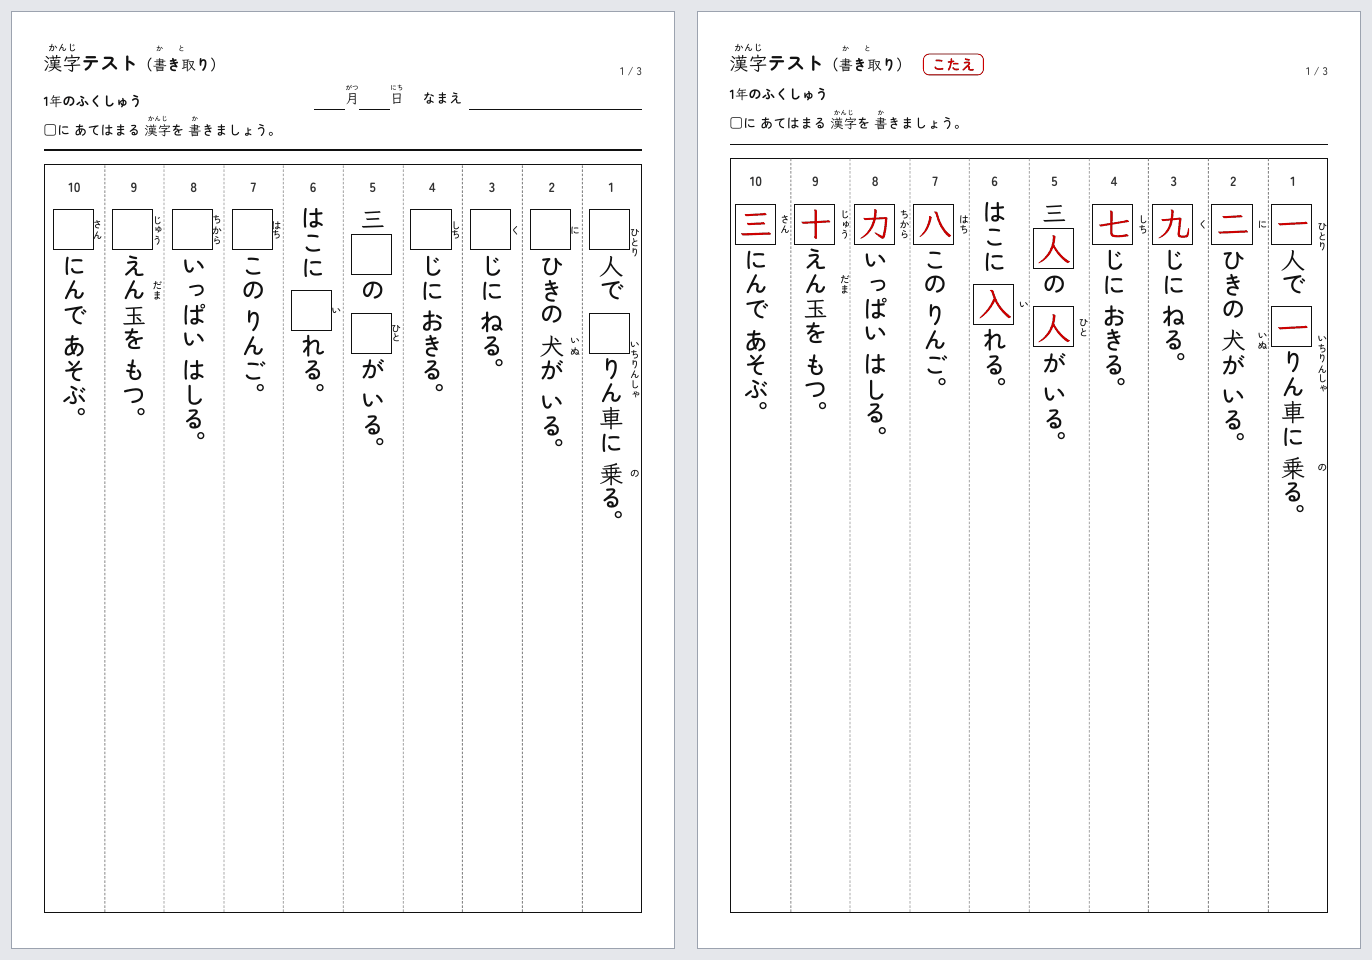
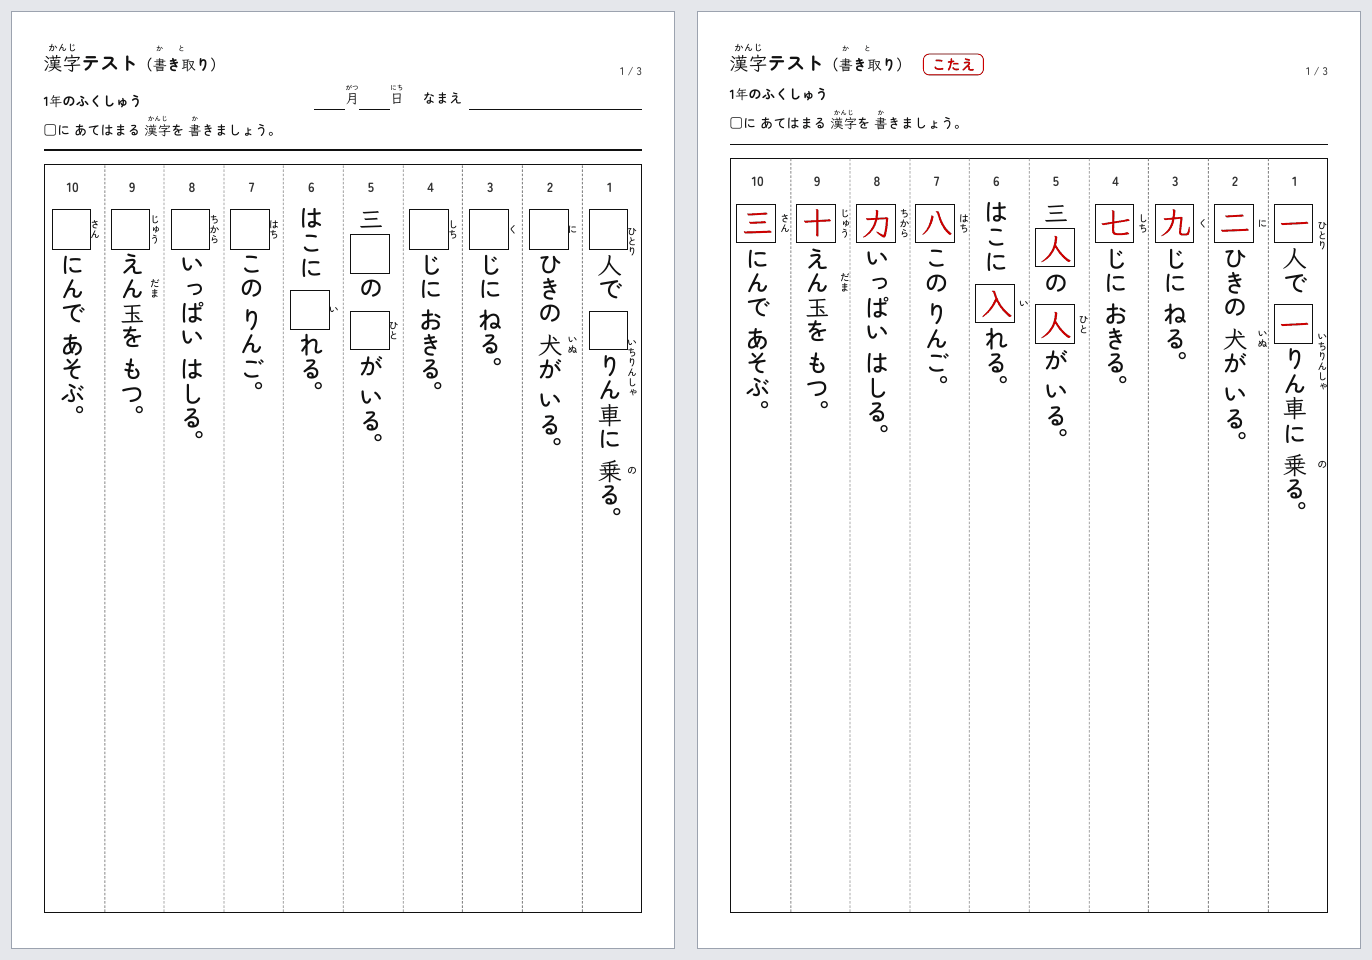
fix(print): 書き取りの□とルビを列の中ほどにそろえ、ルビが列で切れないようにする
- □を 12.5mm にし、列の中心を寄せなおして、□の左とルビの右の余白をどちらも約 2mm にした
  （A4 の PDF を画像にして確かめた）
- 列の overflow: hidden をやめた。ルビの箱が列の線をわずかに越えるだけで、
  字が見えているのに切られることがあるため
- マニュアルの刷り上がりの写真を、いまの紙面で撮りなおした

Claude-Session: https://claude.ai/code/session_01UfLrwEe3Pi7kTxWbTVWJ6o

diff --git a/src/index.css b/src/index.css
@@ -338,10 +338,9 @@ html.presentation [role="button"] {
   width: 10%;
   /* □の右にルビ（約 3mm）が付くぶん、列の中心を左へ寄せる。
      縦書きの line-height は列の幅で、padding-right と足して列の幅（18.9mm）に収める */
-  padding: 5mm 3.9mm 5mm 0;
+  padding: 5mm 2.6mm 5mm 0;
   font-size: 22pt;
   line-height: 15mm;
-  overflow: hidden;
 }
 .pt-q rt {
   font-size: 9pt;
@@ -364,13 +363,13 @@ html.presentation [role="button"] {
 .pt-box {
   display: inline-block;
   box-sizing: border-box;
-  width: 13mm;
-  height: 13mm;
+  width: 12.5mm;
+  height: 12.5mm;
   margin: 1mm 0;
   border: 0.45mm solid #111;
   background: #fff;
-  font-size: 30pt;
-  line-height: 12.1mm;
+  font-size: 28pt;
+  line-height: 11.6mm;
   text-align: center;
   color: #c00;
 }
